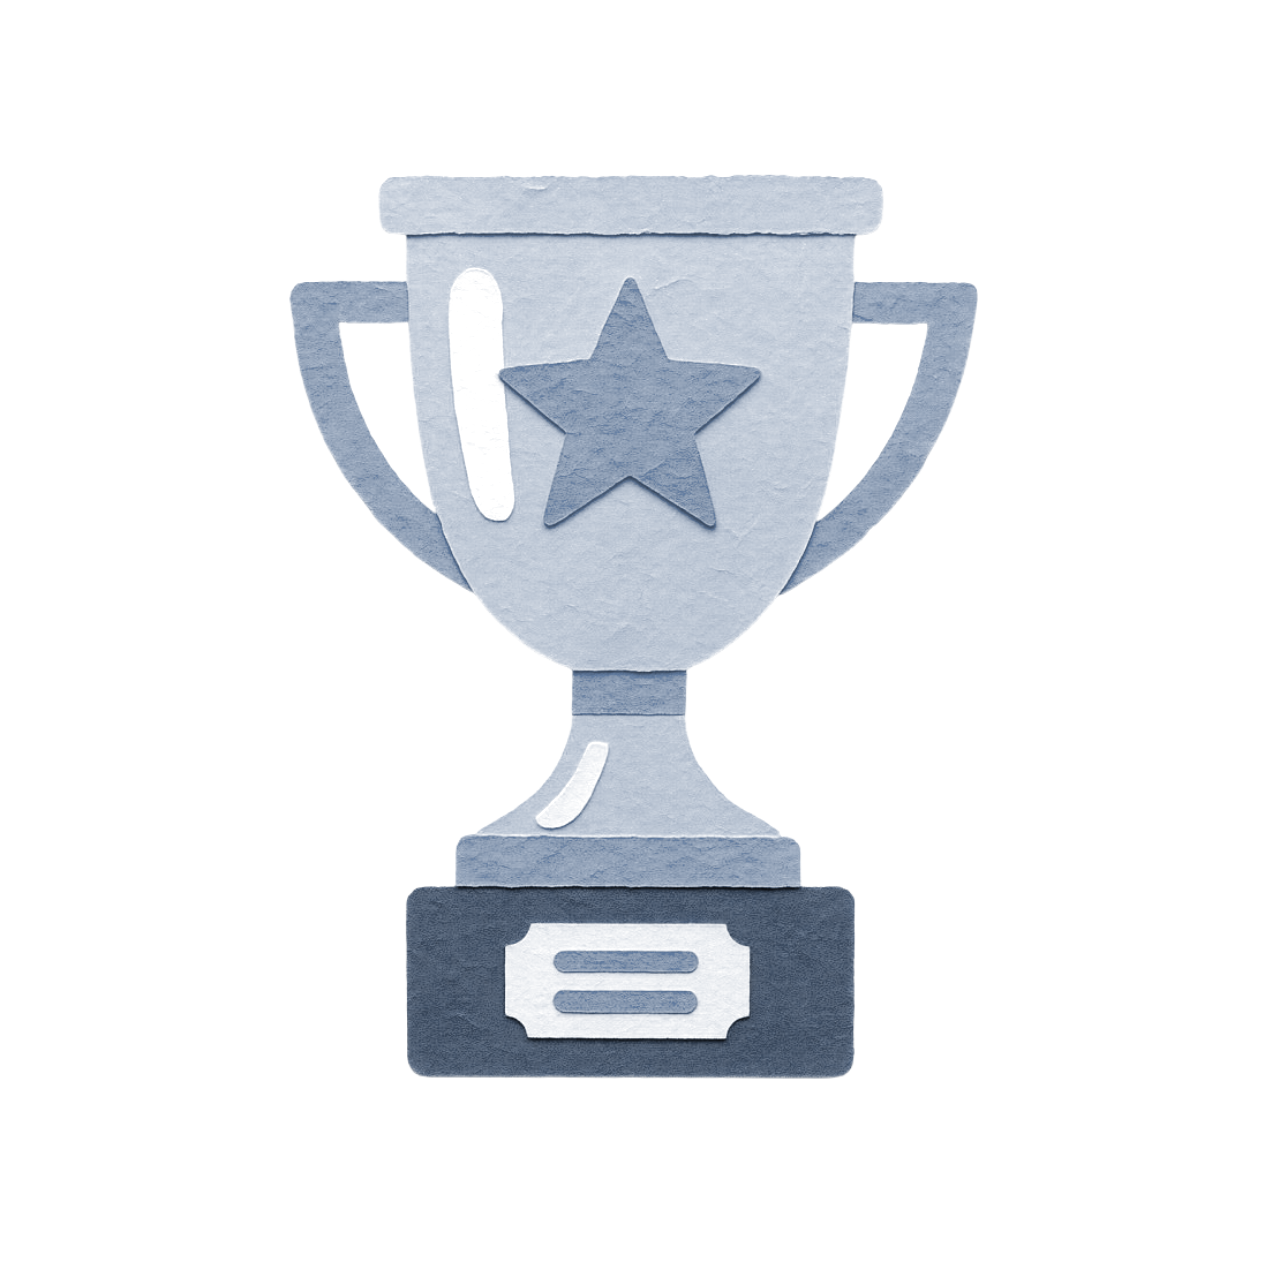
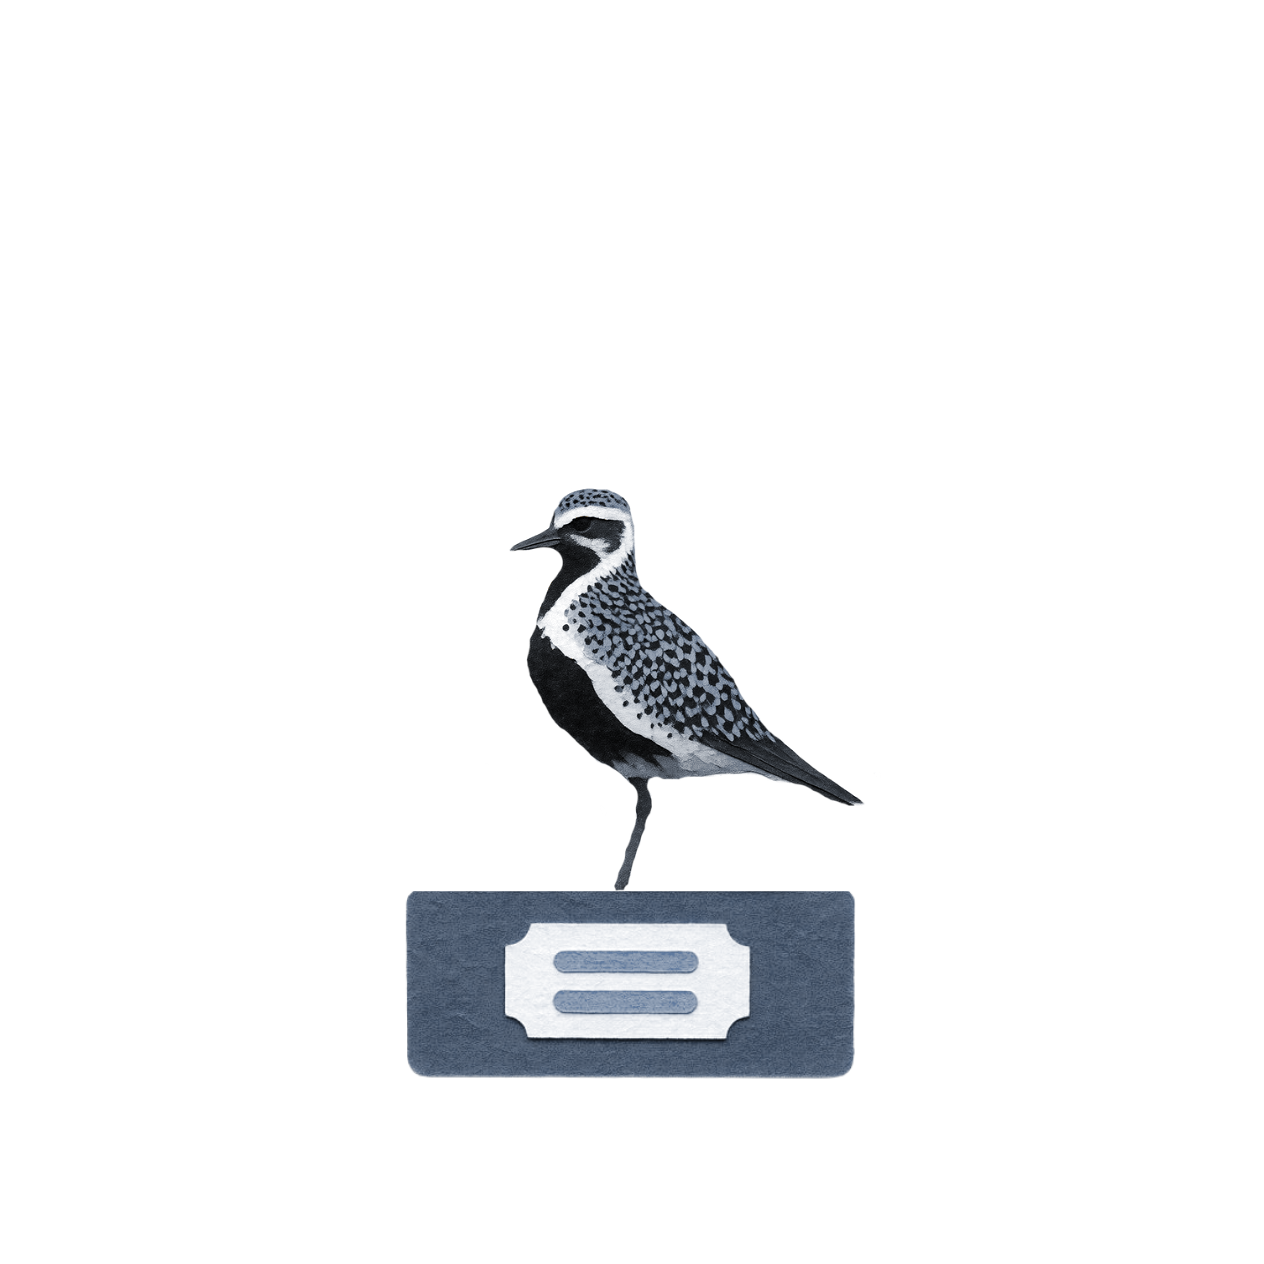
Trophee 'Pluviers & rivages' : 6 PNG papier-craft Canva (pluvier) a la place du placeholder generic. Cache v149.

Changed region(s): [[0.216, 0.1234, 0.7714, 0.7097]]

diff --git a/service-worker.js b/service-worker.js
@@ -3,7 +3,7 @@
 //   puis rafraichit en background. Prochain reload = nouvelle version.
 // - Requetes cross-origin (Firestore, iNaturalist, xeno-canto, Wikipedia, etc.) : reseau seul.
 // - Bump CACHE_VERSION quand on veut invalider volontairement.
-const CACHE_VERSION = 'v148-2026-09-14-7-nouvelles-familles-passereaux';
+const CACHE_VERSION = 'v149-2026-09-14-rivages-pluvier-canva';
 const CACHE_NAME = 'lmb-' + CACHE_VERSION;
 
 self.addEventListener('install', (e) => {
